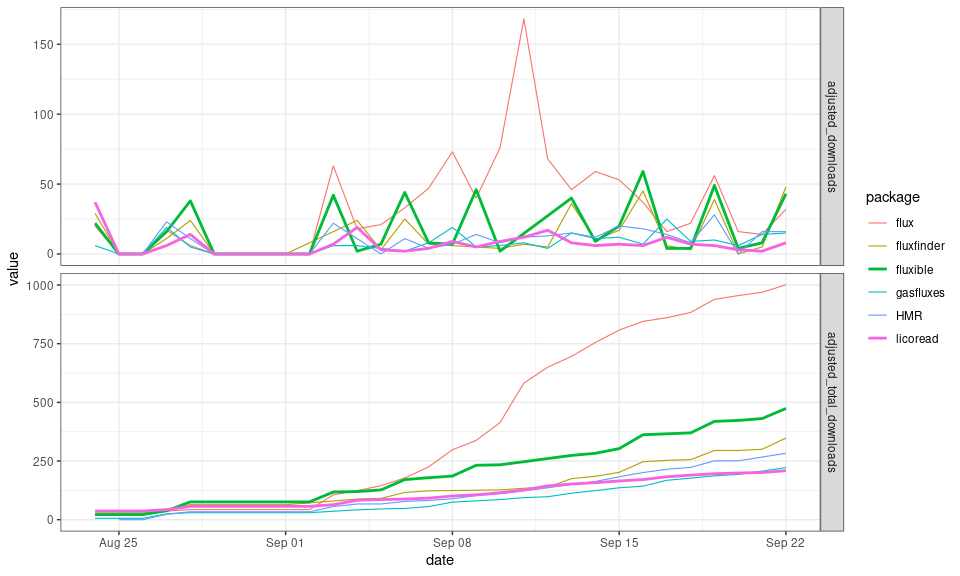
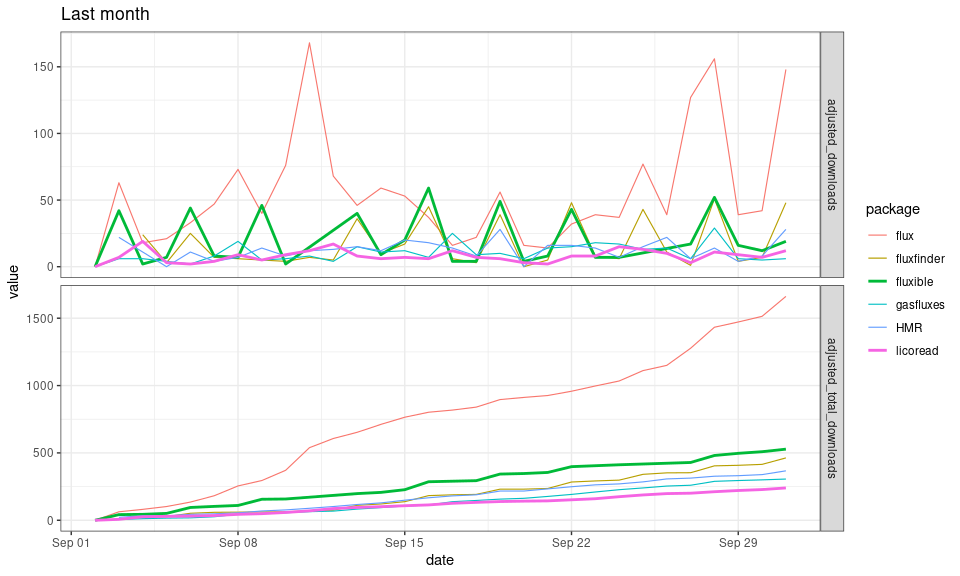
dl log update

diff --git a/download_logs.md b/download_logs.md
@@ -1,19 +1,27 @@
 # fluxible download logs
 Joseph Gaudard
-2025-09-24
-
-<div id="fig-overall">
-
-![](download_logs_files/figure-commonmark/fig-overall-1.png)
-
-Figure 1: Overall number of downloads since CRAN acceptance.
-
-</div>
+2025-10-03
 
 <div id="fig-lastmonth">
 
 ![](download_logs_files/figure-commonmark/fig-lastmonth-1.png)
 
-Figure 2: Number of downloads for the last month.
+Figure 1: Number of downloads for the last month.
+
+</div>
+
+<div id="fig-paper">
+
+![](download_logs_files/figure-commonmark/fig-paper-1.png)
+
+Figure 2: Number of downloads since paper was published.
+
+</div>
+
+<div id="fig-overall">
+
+![](download_logs_files/figure-commonmark/fig-overall-1.png)
+
+Figure 3: Overall number of downloads since CRAN acceptance.
 
 </div>
